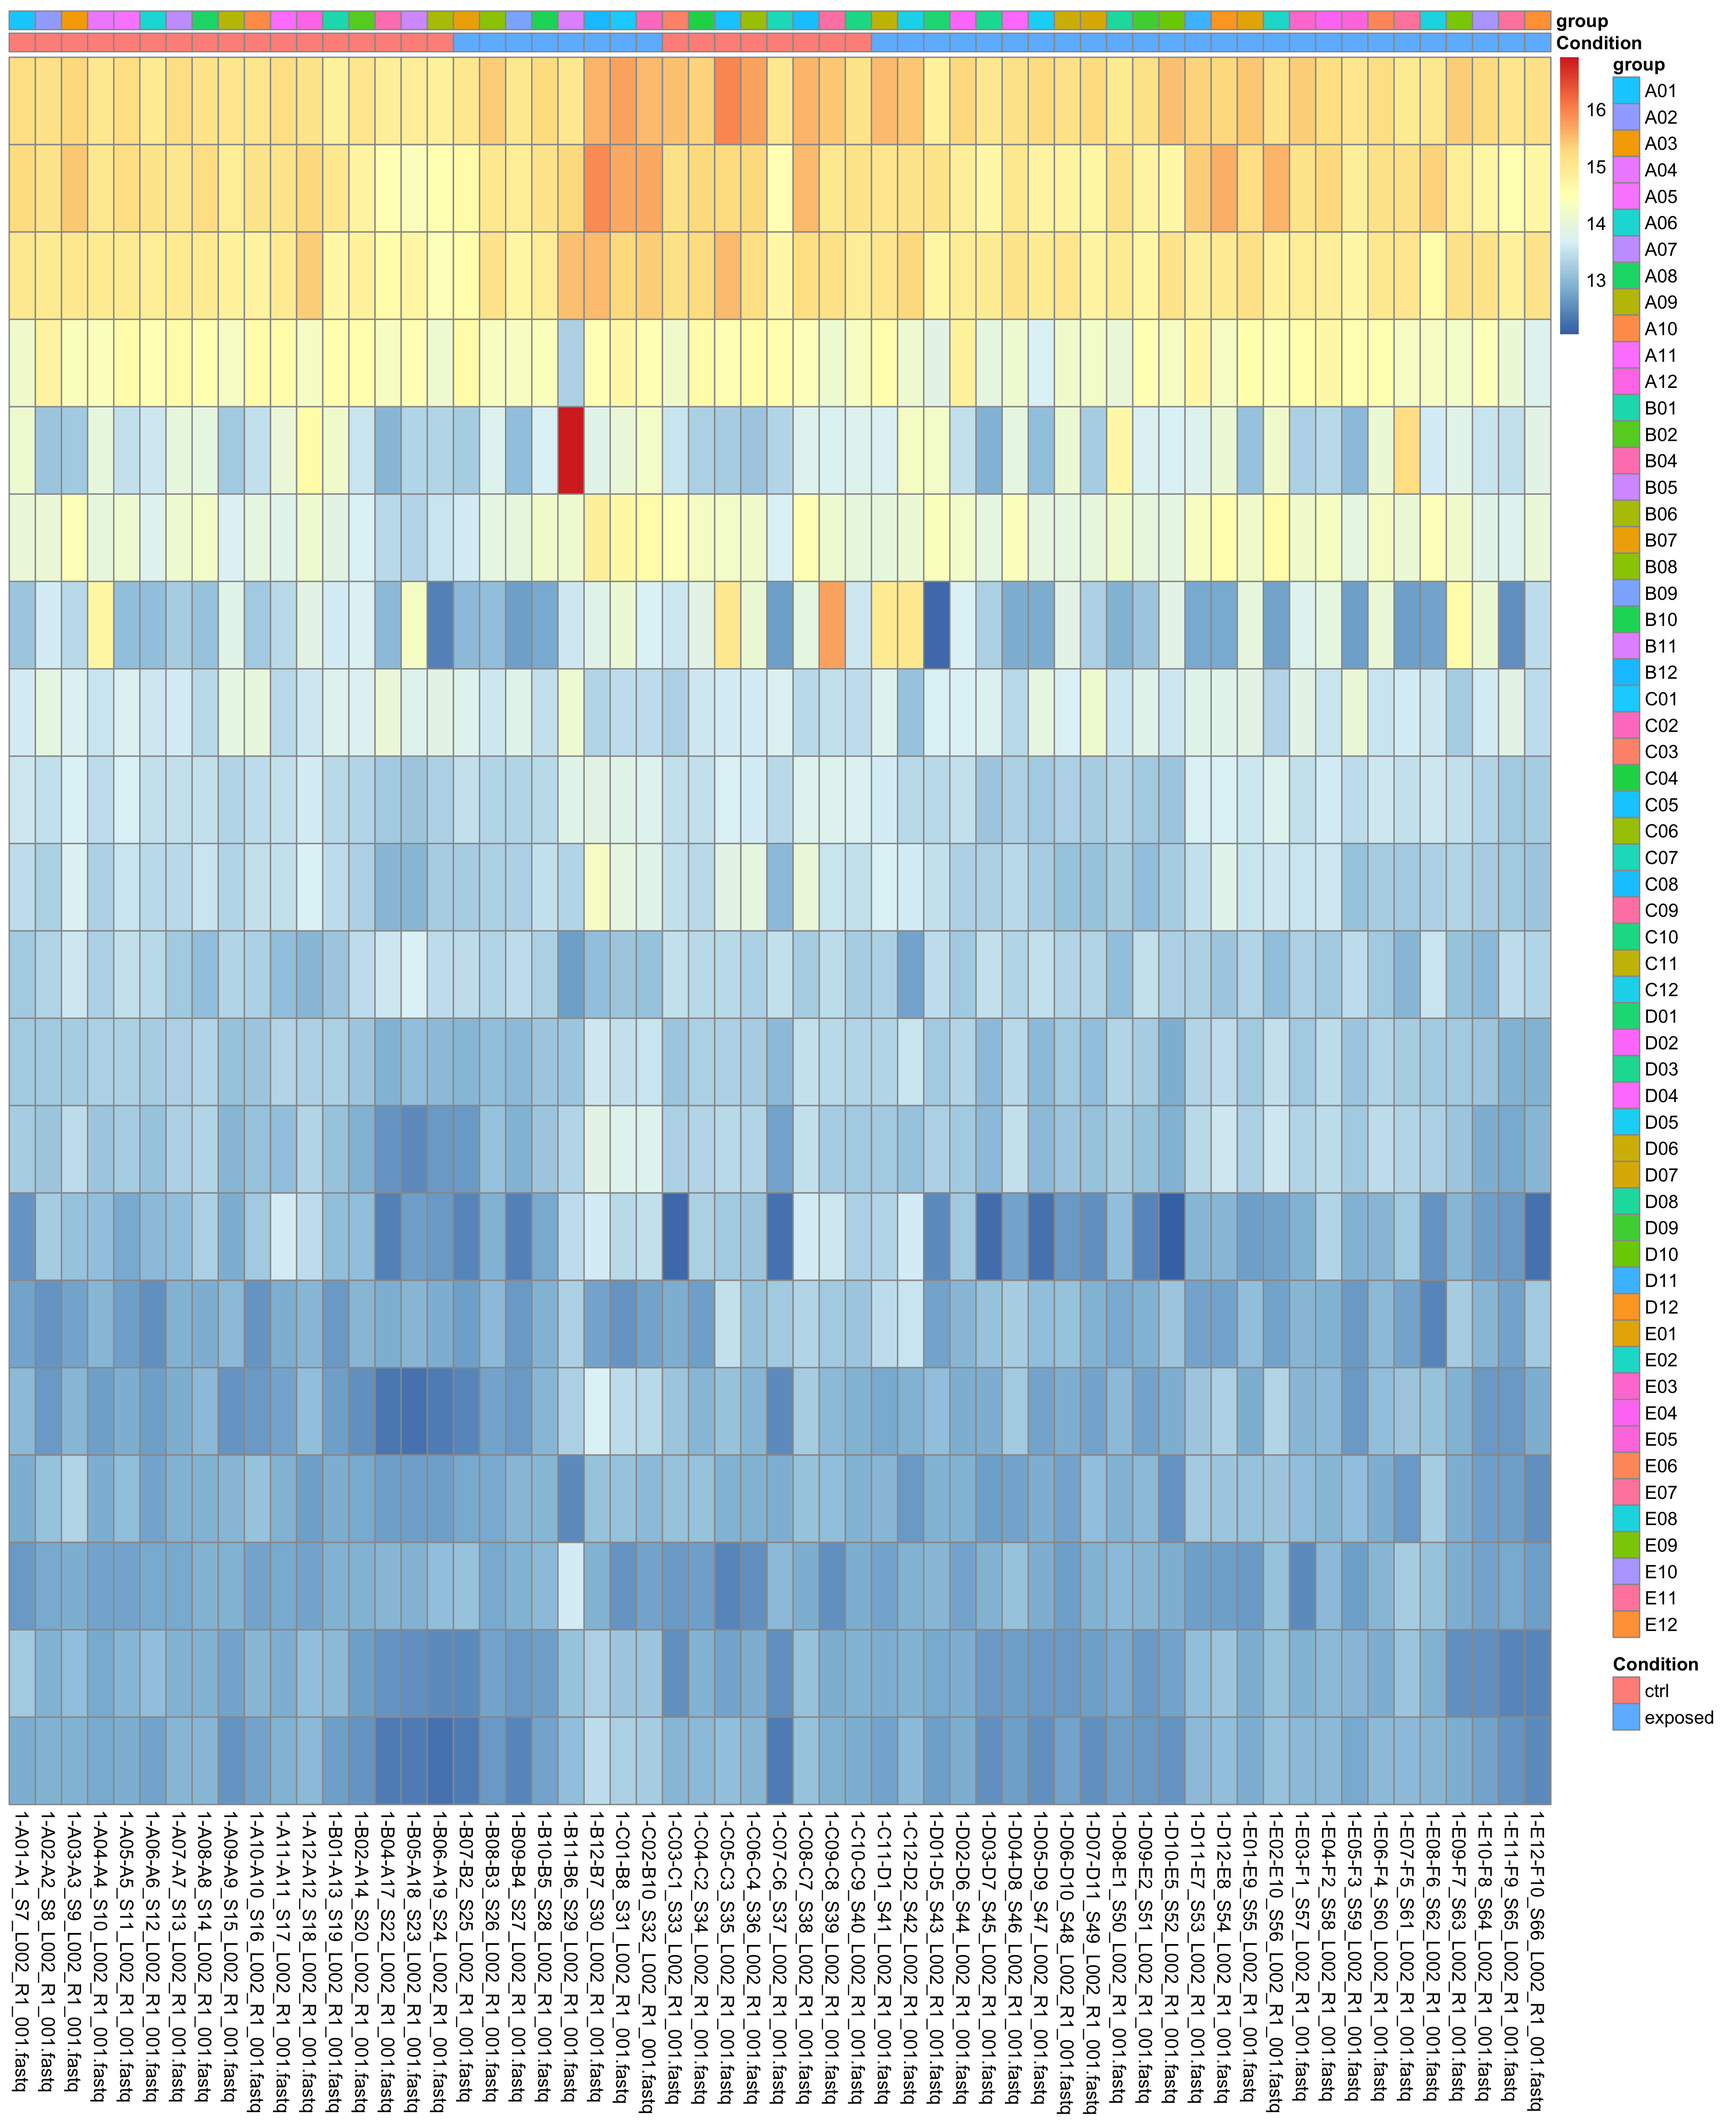
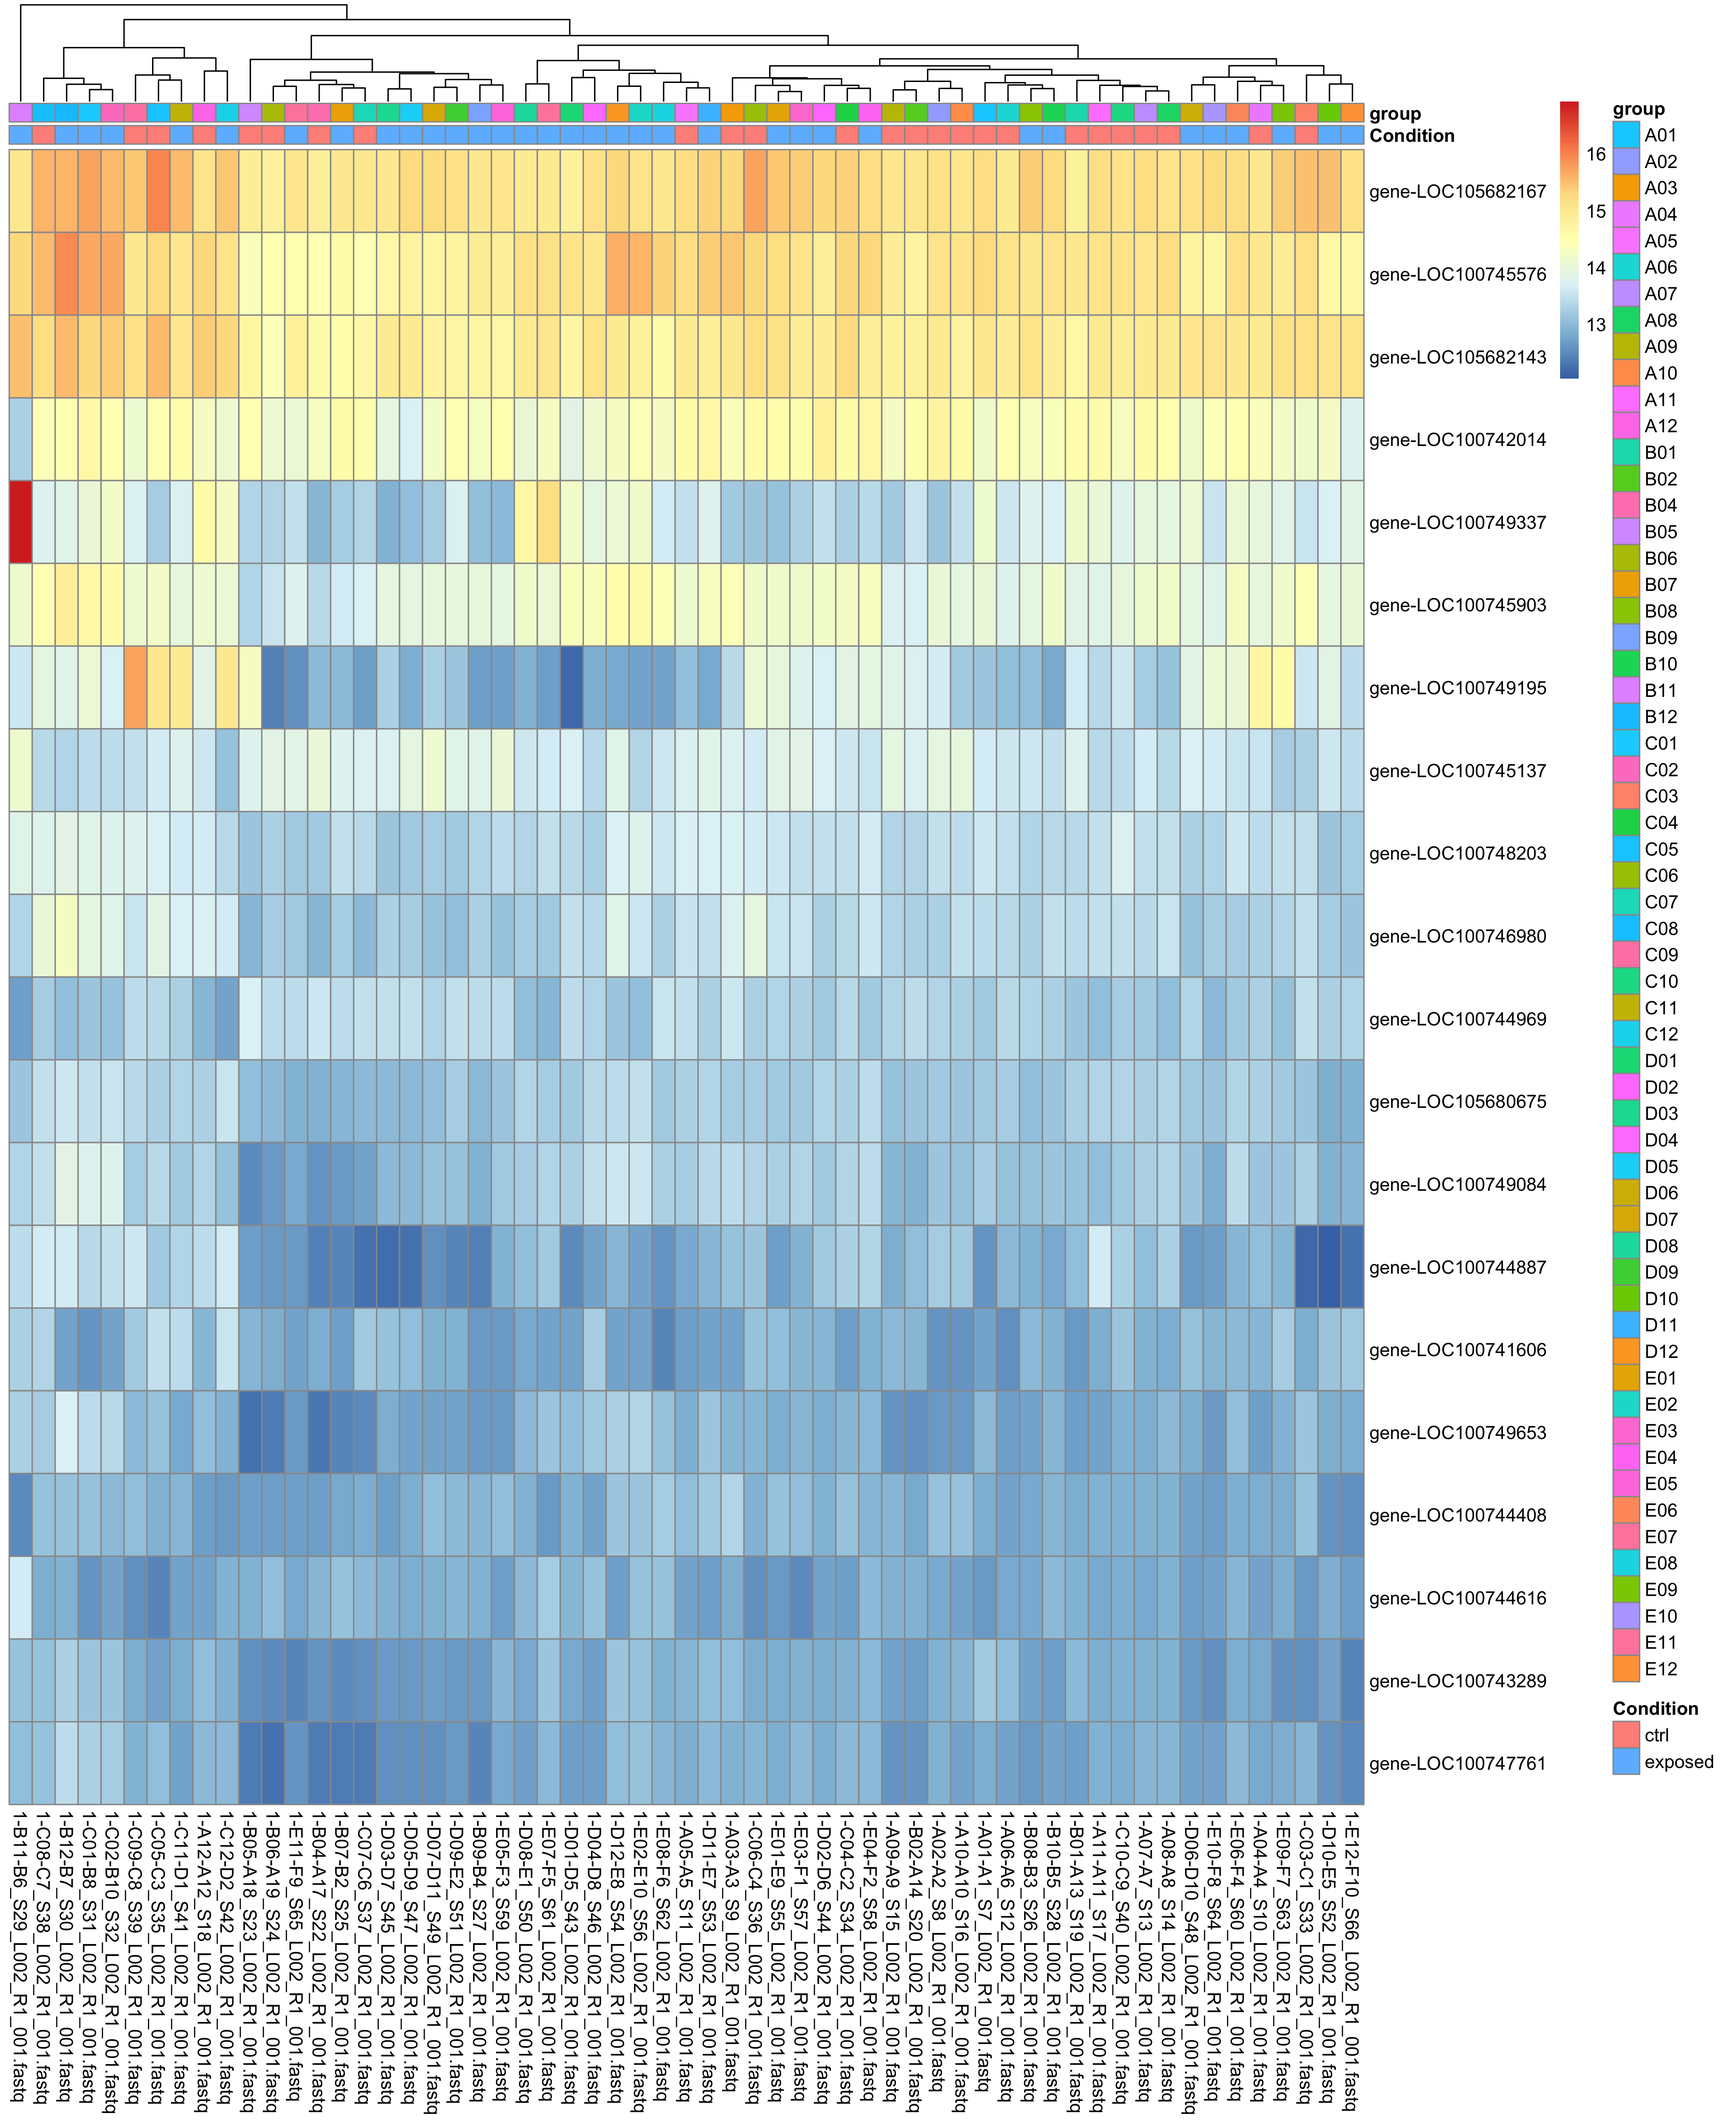
update bee heatmaps with additional labels

diff --git a/Notebook_Mou/01a_Methods_Summary.md b/Notebook_Mou/01a_Methods_Summary.md
@@ -753,7 +753,7 @@ ANOVA stats to look at treatment, nest effects on variation (only genes with lar
 7. Made volcano plot of all genes to see a big picture of proportion of not differentially regulated genes vs up- or down-regulated genes
 ![](results/Bee_AllGenes_VolcanoPlot.png)<!-- -->
 
-8. Made heatmap of bee count matrix
+8. Made heatmap of bee count matrix of first 20 genes with highest counts
 ![](results/Bee_HeatmapOfCountMatrix.png)<!-- -->
 
 9. Made heatmap of bee sample-to-sample distances
